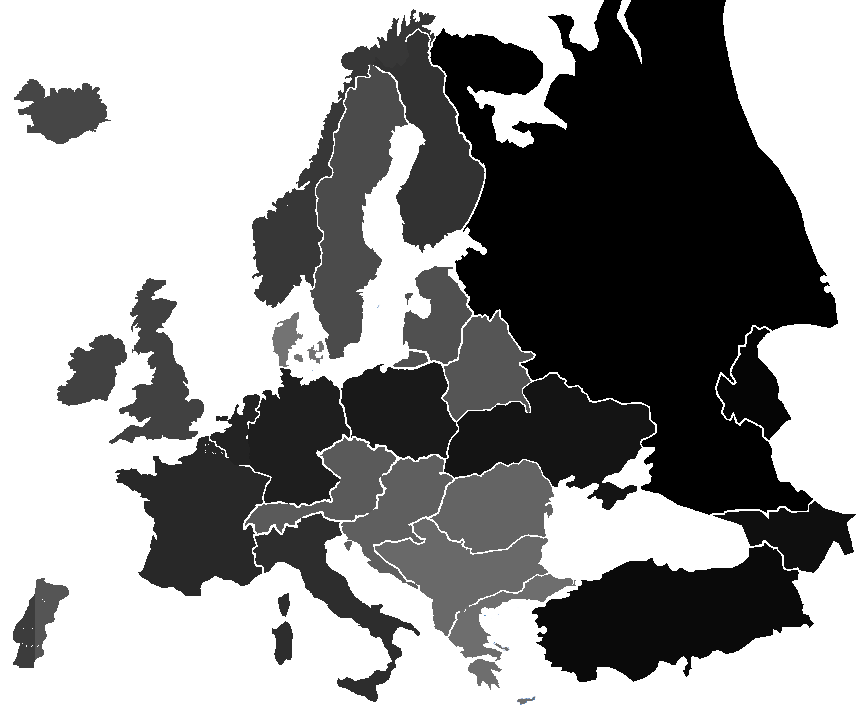
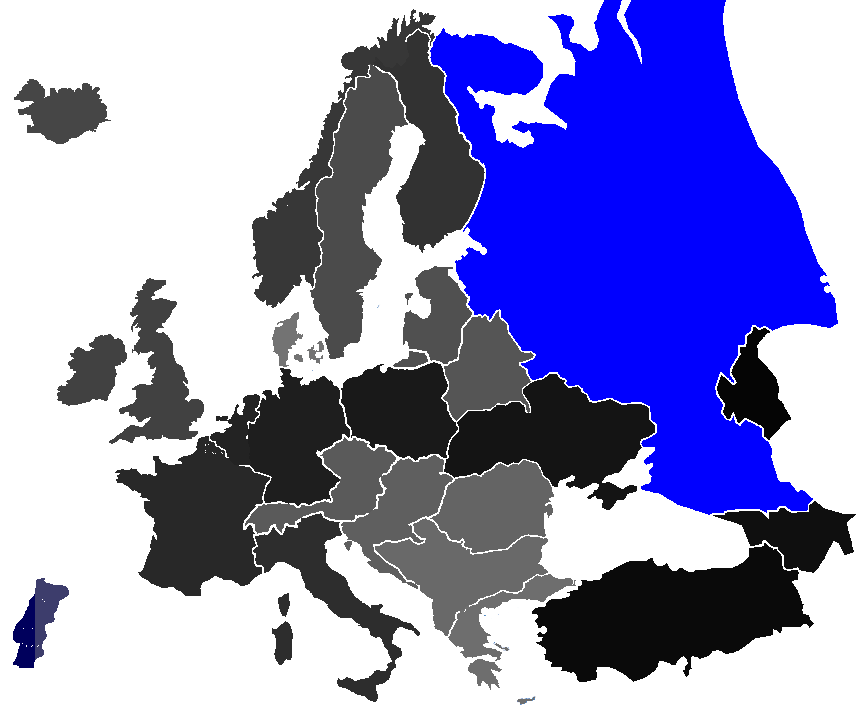
Mapa de Europa funcional, Añadida pantalla de resultados

Changed region(s): [[0.4983, 0.0, 0.9654, 0.7283], [0.0, 0.8193, 0.0623, 0.9407]]

diff --git a/src/controller/game/ServerController.java b/src/controller/game/ServerController.java
@@ -50,6 +50,8 @@ public class ServerController extends Observable{
     private BoardFacade boardFacade;
     int dice1 = -1, dice2 = -1;
     private boolean loaded = false;
+    private boolean finishedGame = false;
+
 
     /**
      *
@@ -353,10 +355,11 @@ public class ServerController extends Observable{
                 }
             } else { //Si solo queda un jugador ha ganado ese jugador
                 frame.error("Player :- " + ((int) ReadingFiles.getPlayerId2().keySet().toArray()[0] + 1) + " Wins");
+                setFinishedGame(true);
                 getBoardFacade().sendErrorMessage("Player :- " + ((int) ReadingFiles.getPlayerId2().keySet().toArray()[0] + 1) + " Wins",
                         playerObjet(getCurrentPlayer()));
-                frame.dispose();
-                System.exit(0);
+                //frame.dispose();
+                //System.exit(0);
 
             }
         } catch (Exception e) {
@@ -424,10 +427,11 @@ public class ServerController extends Observable{
         }
         if (ReadingFiles.getPlayerId2().size() <= 1) { //Si despues de la eliminacion solo queda un jugador ha ganado
             frame.error("Player :- " + ((int) ReadingFiles.getPlayerId2().keySet().toArray()[0] + 1) + " Wins");
+            setFinishedGame(true);
             getBoardFacade().sendErrorMessage("Player :- " + ((int) ReadingFiles.getPlayerId2().keySet().toArray()[0] + 1) + " Wins",
                     playerObjet(getCurrentPlayer()));
-            frame.dispose();
-            System.exit(0);
+            //frame.dispose();
+            //System.exit(0);
 
         }
     }
@@ -443,6 +447,7 @@ public class ServerController extends Observable{
             // TODO Auto-generated catch block
             e.printStackTrace();
         }
+        if(!isFinishedGame()){
         Player player = playerObjet(getCurrentPlayer());
         System.out.println("---------------------------------");
         System.out.println("Current Player " + (getCurrentPlayer() + 1));
@@ -462,6 +467,7 @@ public class ServerController extends Observable{
             player.getStrategy().fortify(player);
             finishCPU();
         }
+        }
     }
 
     /**
@@ -469,9 +475,11 @@ public class ServerController extends Observable{
      *
      */
     private void finishCPU() {
-        playerUpdate();
-        changed();
-        selectTypeOfPlayer();
+        if(!isFinishedGame()) {
+            playerUpdate();
+            changed();
+            selectTypeOfPlayer();
+        }
     }
 
     /**
@@ -696,6 +704,14 @@ public class ServerController extends Observable{
 
     public void setDice2(int dice2) {
         this.dice2 = dice2;
+    }
+
+    public boolean isFinishedGame() {
+        return finishedGame;
+    }
+
+    public void setFinishedGame(boolean finishedGame) {
+        this.finishedGame = finishedGame;
     }
 
     /*

diff --git a/src/TestingUI/MapController.java b/src/TestingUI/MapController.java
@@ -41,10 +41,10 @@ public class MapController extends GameController implements Initializable {
             cardsPane;
     @FXML
     public Label errorLabel, currentPhase, currentPlayer, stats, armiesLeft, numberDice, fortificationNumber,
-            attackResponseLabel;
+            attackResponseLabel,winner;
     @FXML
     private ImageView playerDice1, playerDice2, playerDice3, opponentDice1, opponentDice2, card1, card2, card3, card4,
-            card5, cardSelected1, cardSelected2, cardSelected3;
+            card5, cardSelected1, cardSelected2, cardSelected3,fullMap;
     private ImageView[] cardsImages = {card1, card2, card3, card4, card5};
     private ImageView[] selectedCardsImages = {cardSelected1, cardSelected2, cardSelected3};
     @FXML
@@ -73,6 +73,14 @@ public class MapController extends GameController implements Initializable {
         HashMap<String, Country> countries = getContainer().getClientController().getServerBoard().getCountries();
 
         File file = new File(getContainer().getMapsLocation() + "/" + getContainer().getClientController().getServerBoard().getMapName()
+                + "/" + "ColorMap" + ".png");
+        Image image = new Image(file.toURI().toString());
+        fullMap.setImage(image);
+        if(getContainer().getClientController().getServerBoard().getMapName().equals("Europe")){
+            fullMap.setLayoutX(328);
+        }
+
+        file = new File(getContainer().getMapsLocation() + "/" + getContainer().getClientController().getServerBoard().getMapName()
                 + "/" + "BlackMap" + ".png");
         loadImage(file);
         file = new File(getContainer().getMapsLocation() + "/" + getContainer().getClientController().getServerBoard().getMapName()
@@ -108,6 +116,9 @@ public class MapController extends GameController implements Initializable {
         imageView.setPickOnBounds(true);
         imageView.setPreserveRatio(true);
         countriesPane.getChildren().add(imageView);
+        if(getContainer().getClientController().getServerBoard().getMapName().equals("Europe")){
+            imageView.setLayoutX(328);
+        }
         return (imageView);
     }
 
@@ -167,6 +178,20 @@ public class MapController extends GameController implements Initializable {
                     }
                 }
             }
+        }
+
+        //Comprobacion si ha ganado alguien
+        {
+            Platform.runLater(new Runnable() {
+                @Override
+                public void run() {
+                    if(getContainer().getServerController().isFinishedGame()){
+                        loadView("results-view.fxml");
+                        winner.setText(getContainer().getClientController().getServerBoard().getPlayers().toString());
+
+                    }
+                }
+            });
         }
 
         //Actualizar fase
